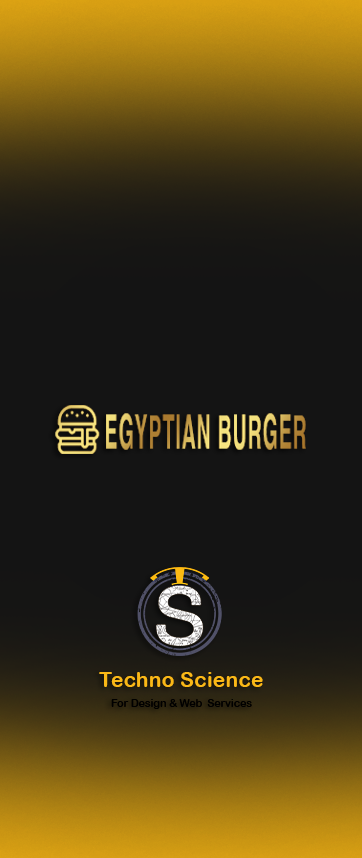
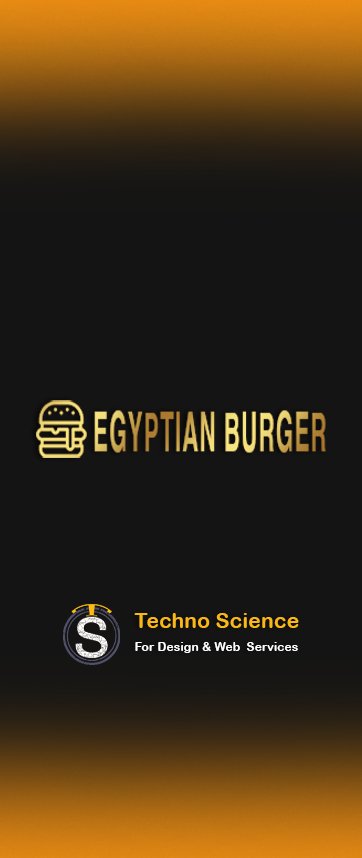
update thecnology

diff --git a/index.html b/index.html
@@ -16,10 +16,10 @@
 
     
     <audio id="splash-audio">
-        <source src="/Static/sound/start1.mp3" type="audio" >
+        <source src="/Static/sound/start.mp3" type="audio" >
     </audio>
     <div id="splash-screen">
-        <img src="./../../Static/images/اساسيات/start.png" alt="شعار الموقع">
+        <img src="./../../Static/images/اساسيات/start3.png" alt="شعار الموقع">
     </div>
 
 
